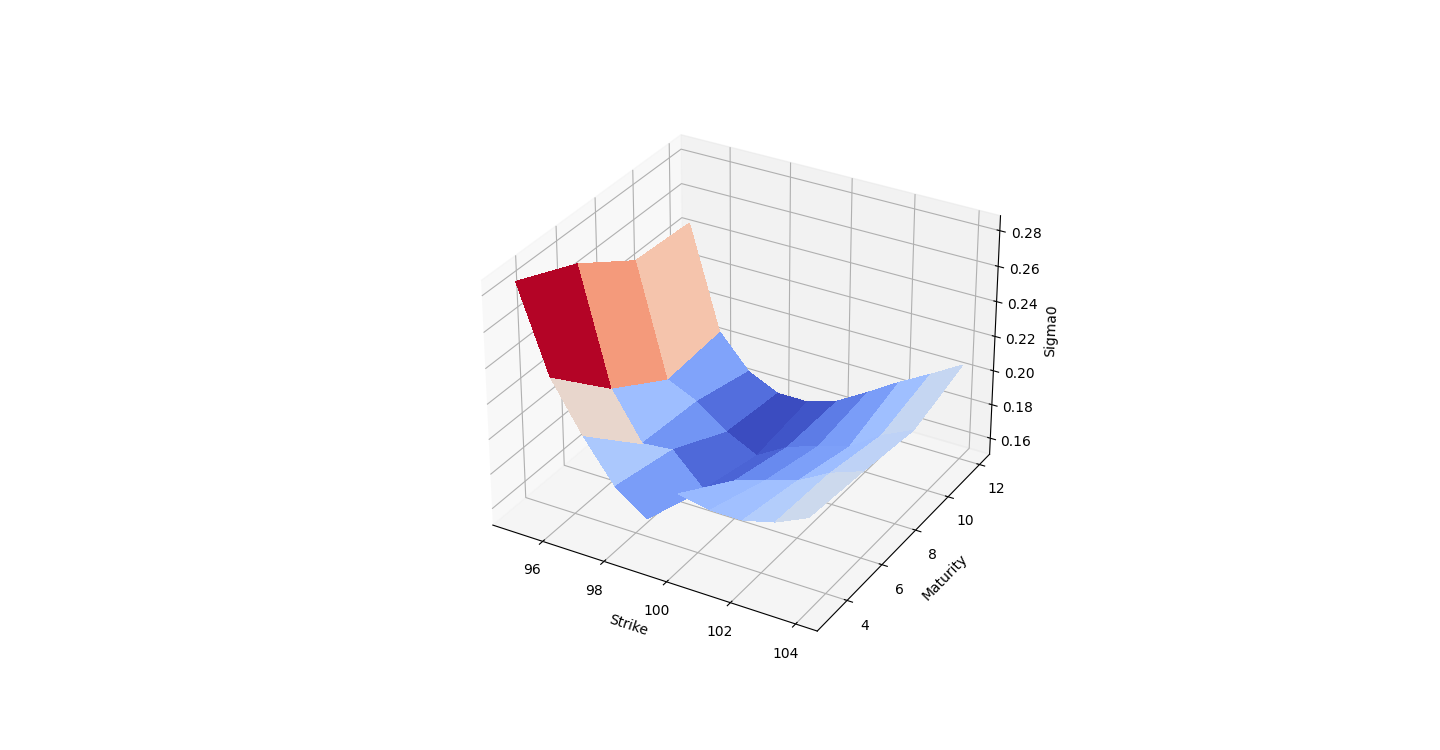
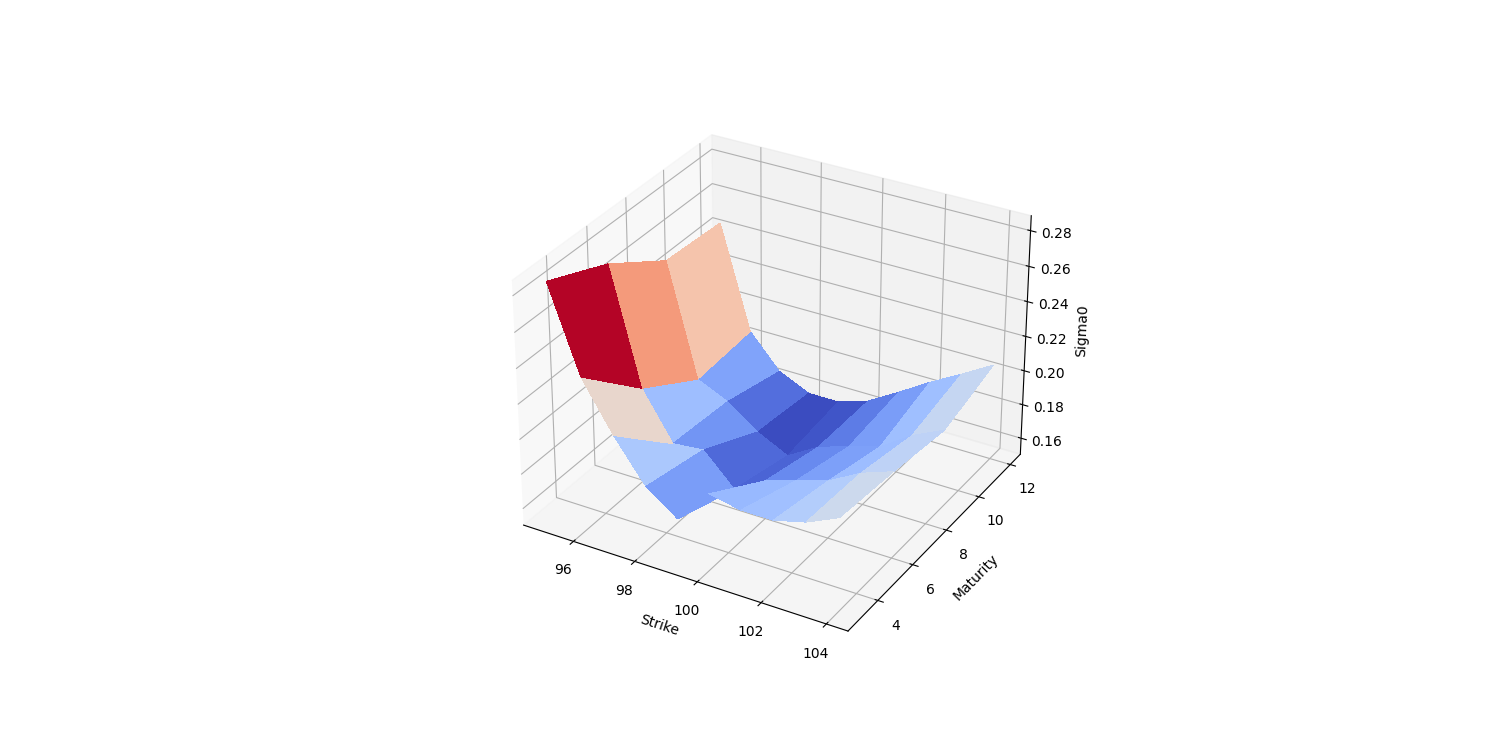
Update Code

diff --git a/main_2.py b/main_2.py
@@ -77,7 +77,6 @@ fig7.savefig('results/2.2_Interpolated_Volatilities_8M.png')
 
 
 # -------------------------------------------- PART 2.2 : CEV PRICE ---------------------------------------------
-"""
 # CEV Calibration (fixed gamma=1)
 df_cev_fixed_gamma = df_mkt
 
@@ -98,7 +97,6 @@ axs8.set_xlabel("Strike")
 axs8.set_ylabel("Maturity")
 axs8.set_zlabel("Sigma0")
 fig8.savefig('results/2.3_Sigma0_Surface.png')
-"""
 
 
 # CEV Calibration
@@ -153,7 +151,6 @@ print(f" - Price: {CEV_price}")
 
 # ------------------------------------------- PART 2.3 : DUPIRE PRICE -------------------------------------------
 
-"""
 # Create Interpolated Volatility Surface
 df_dupire_vol = pd.DataFrame()
 df_dupire_vol["Strike"] = np.arange(min(df_mkt["Strike"]), max(df_mkt["Strike"])+step, step)
@@ -230,7 +227,6 @@ simulations = LV_Diffusion(S0=100, drift=0, maturity=8/12, LV_surface=df_dupire,
 price = np.mean(np.array([max(0, (sim - 99.5)) for sim in simulations[-1]]))
 print("\nDupire")
 print(f" - Price: {price}")
-"""
 
 # Display Graphs
 plt.show()
